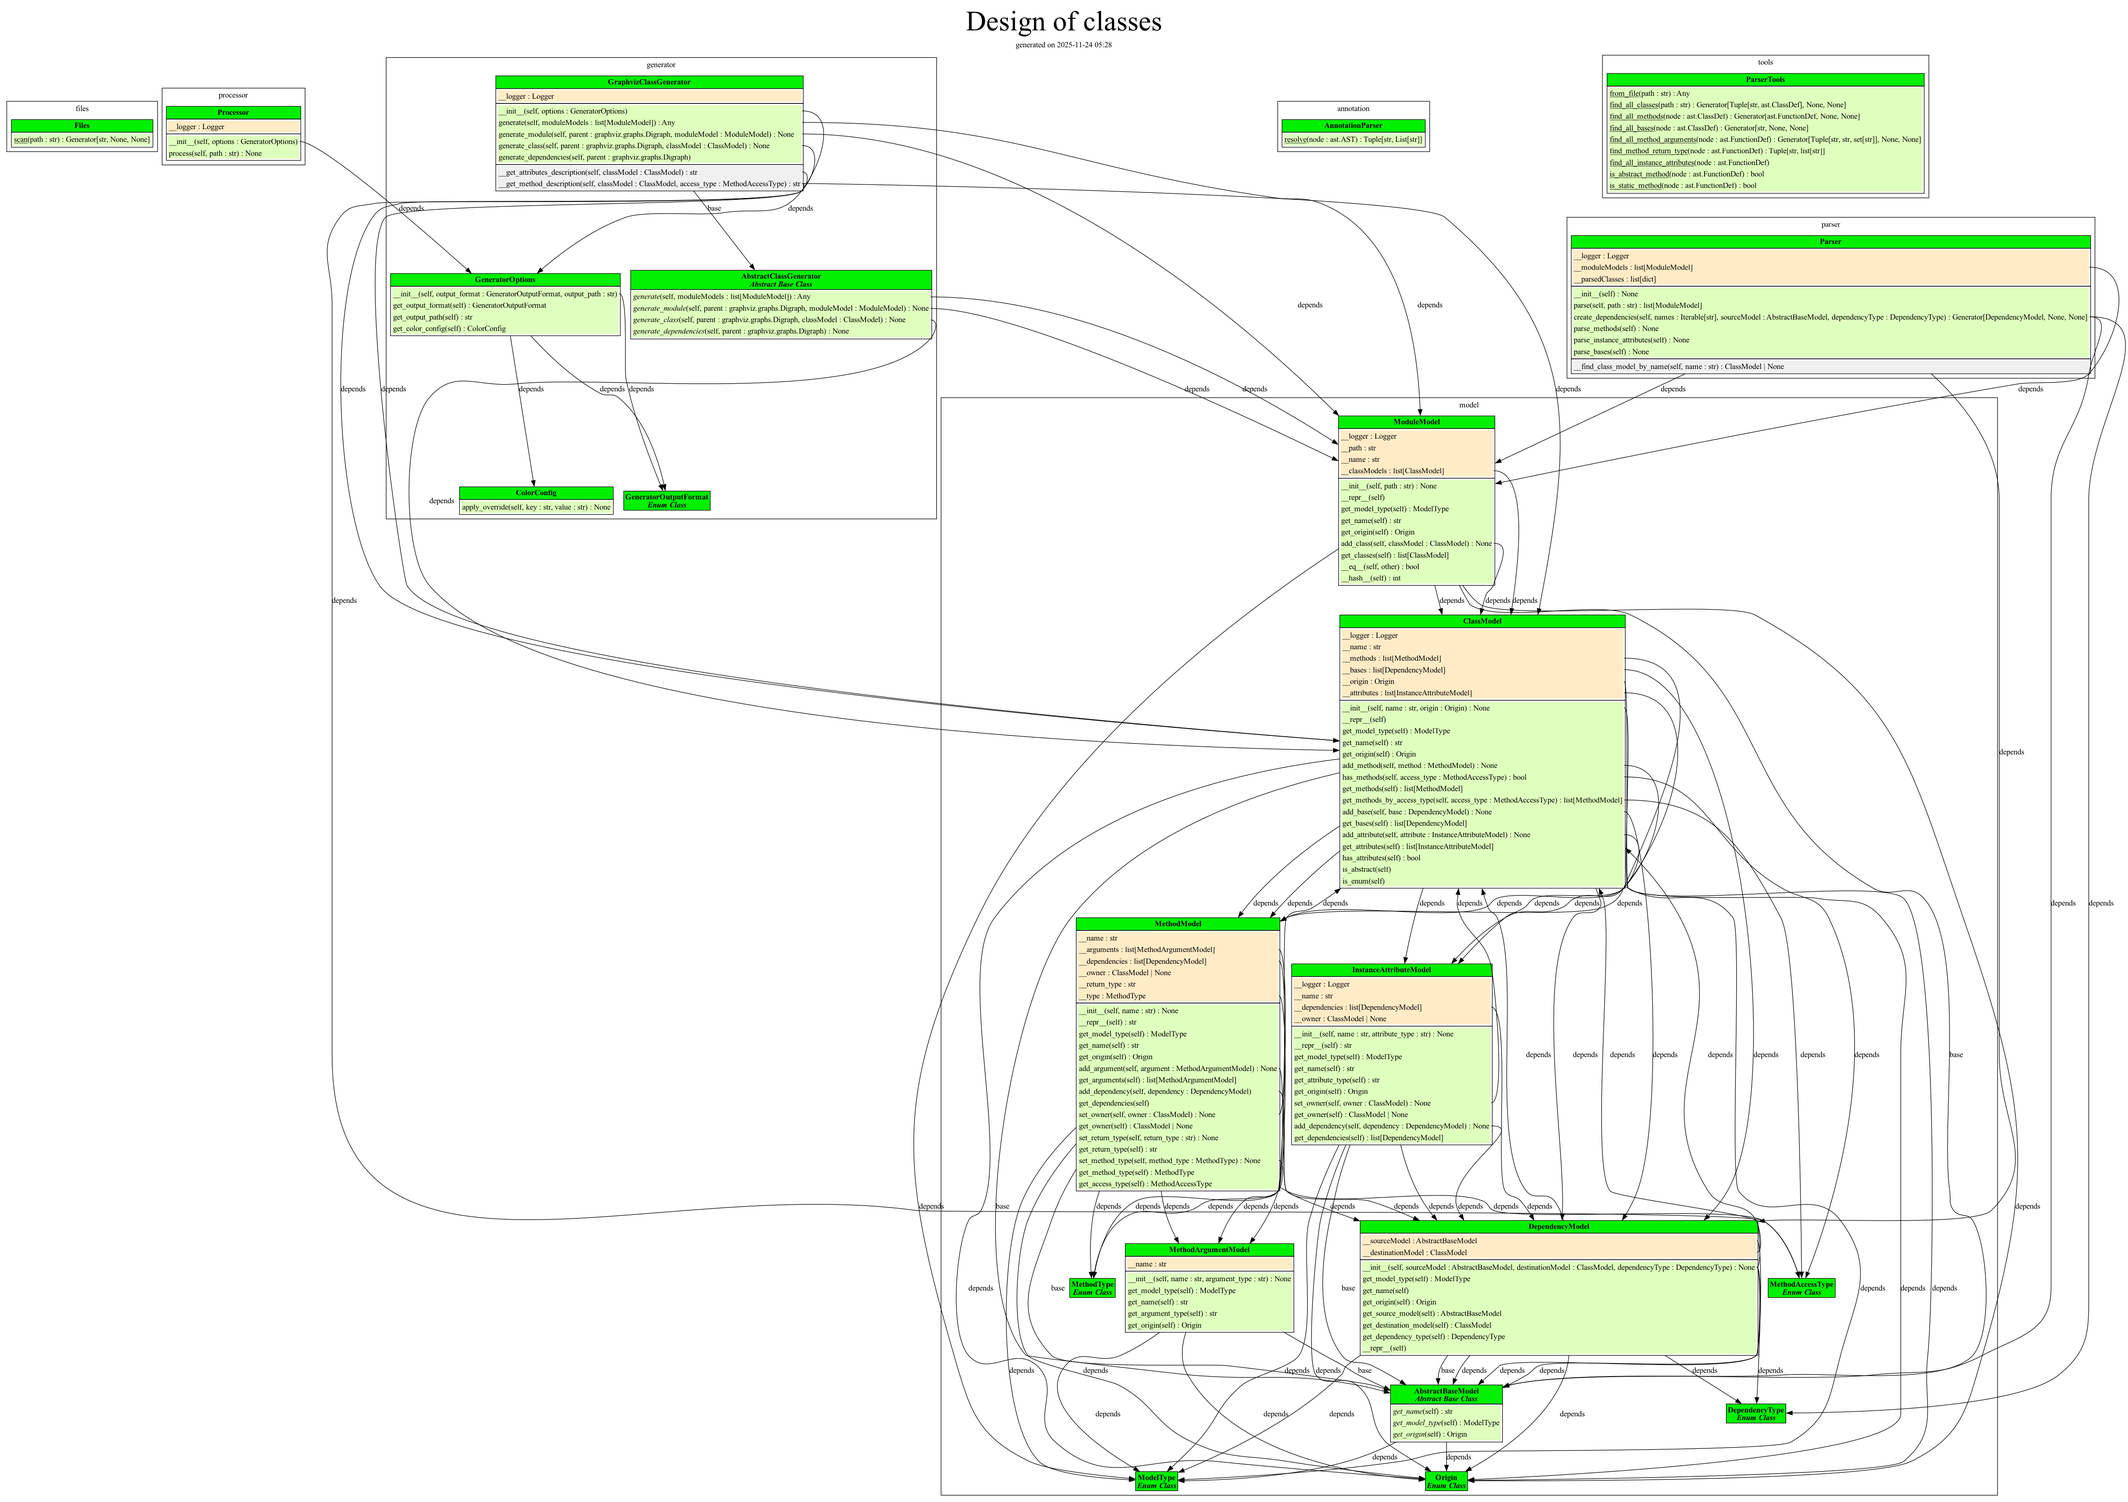
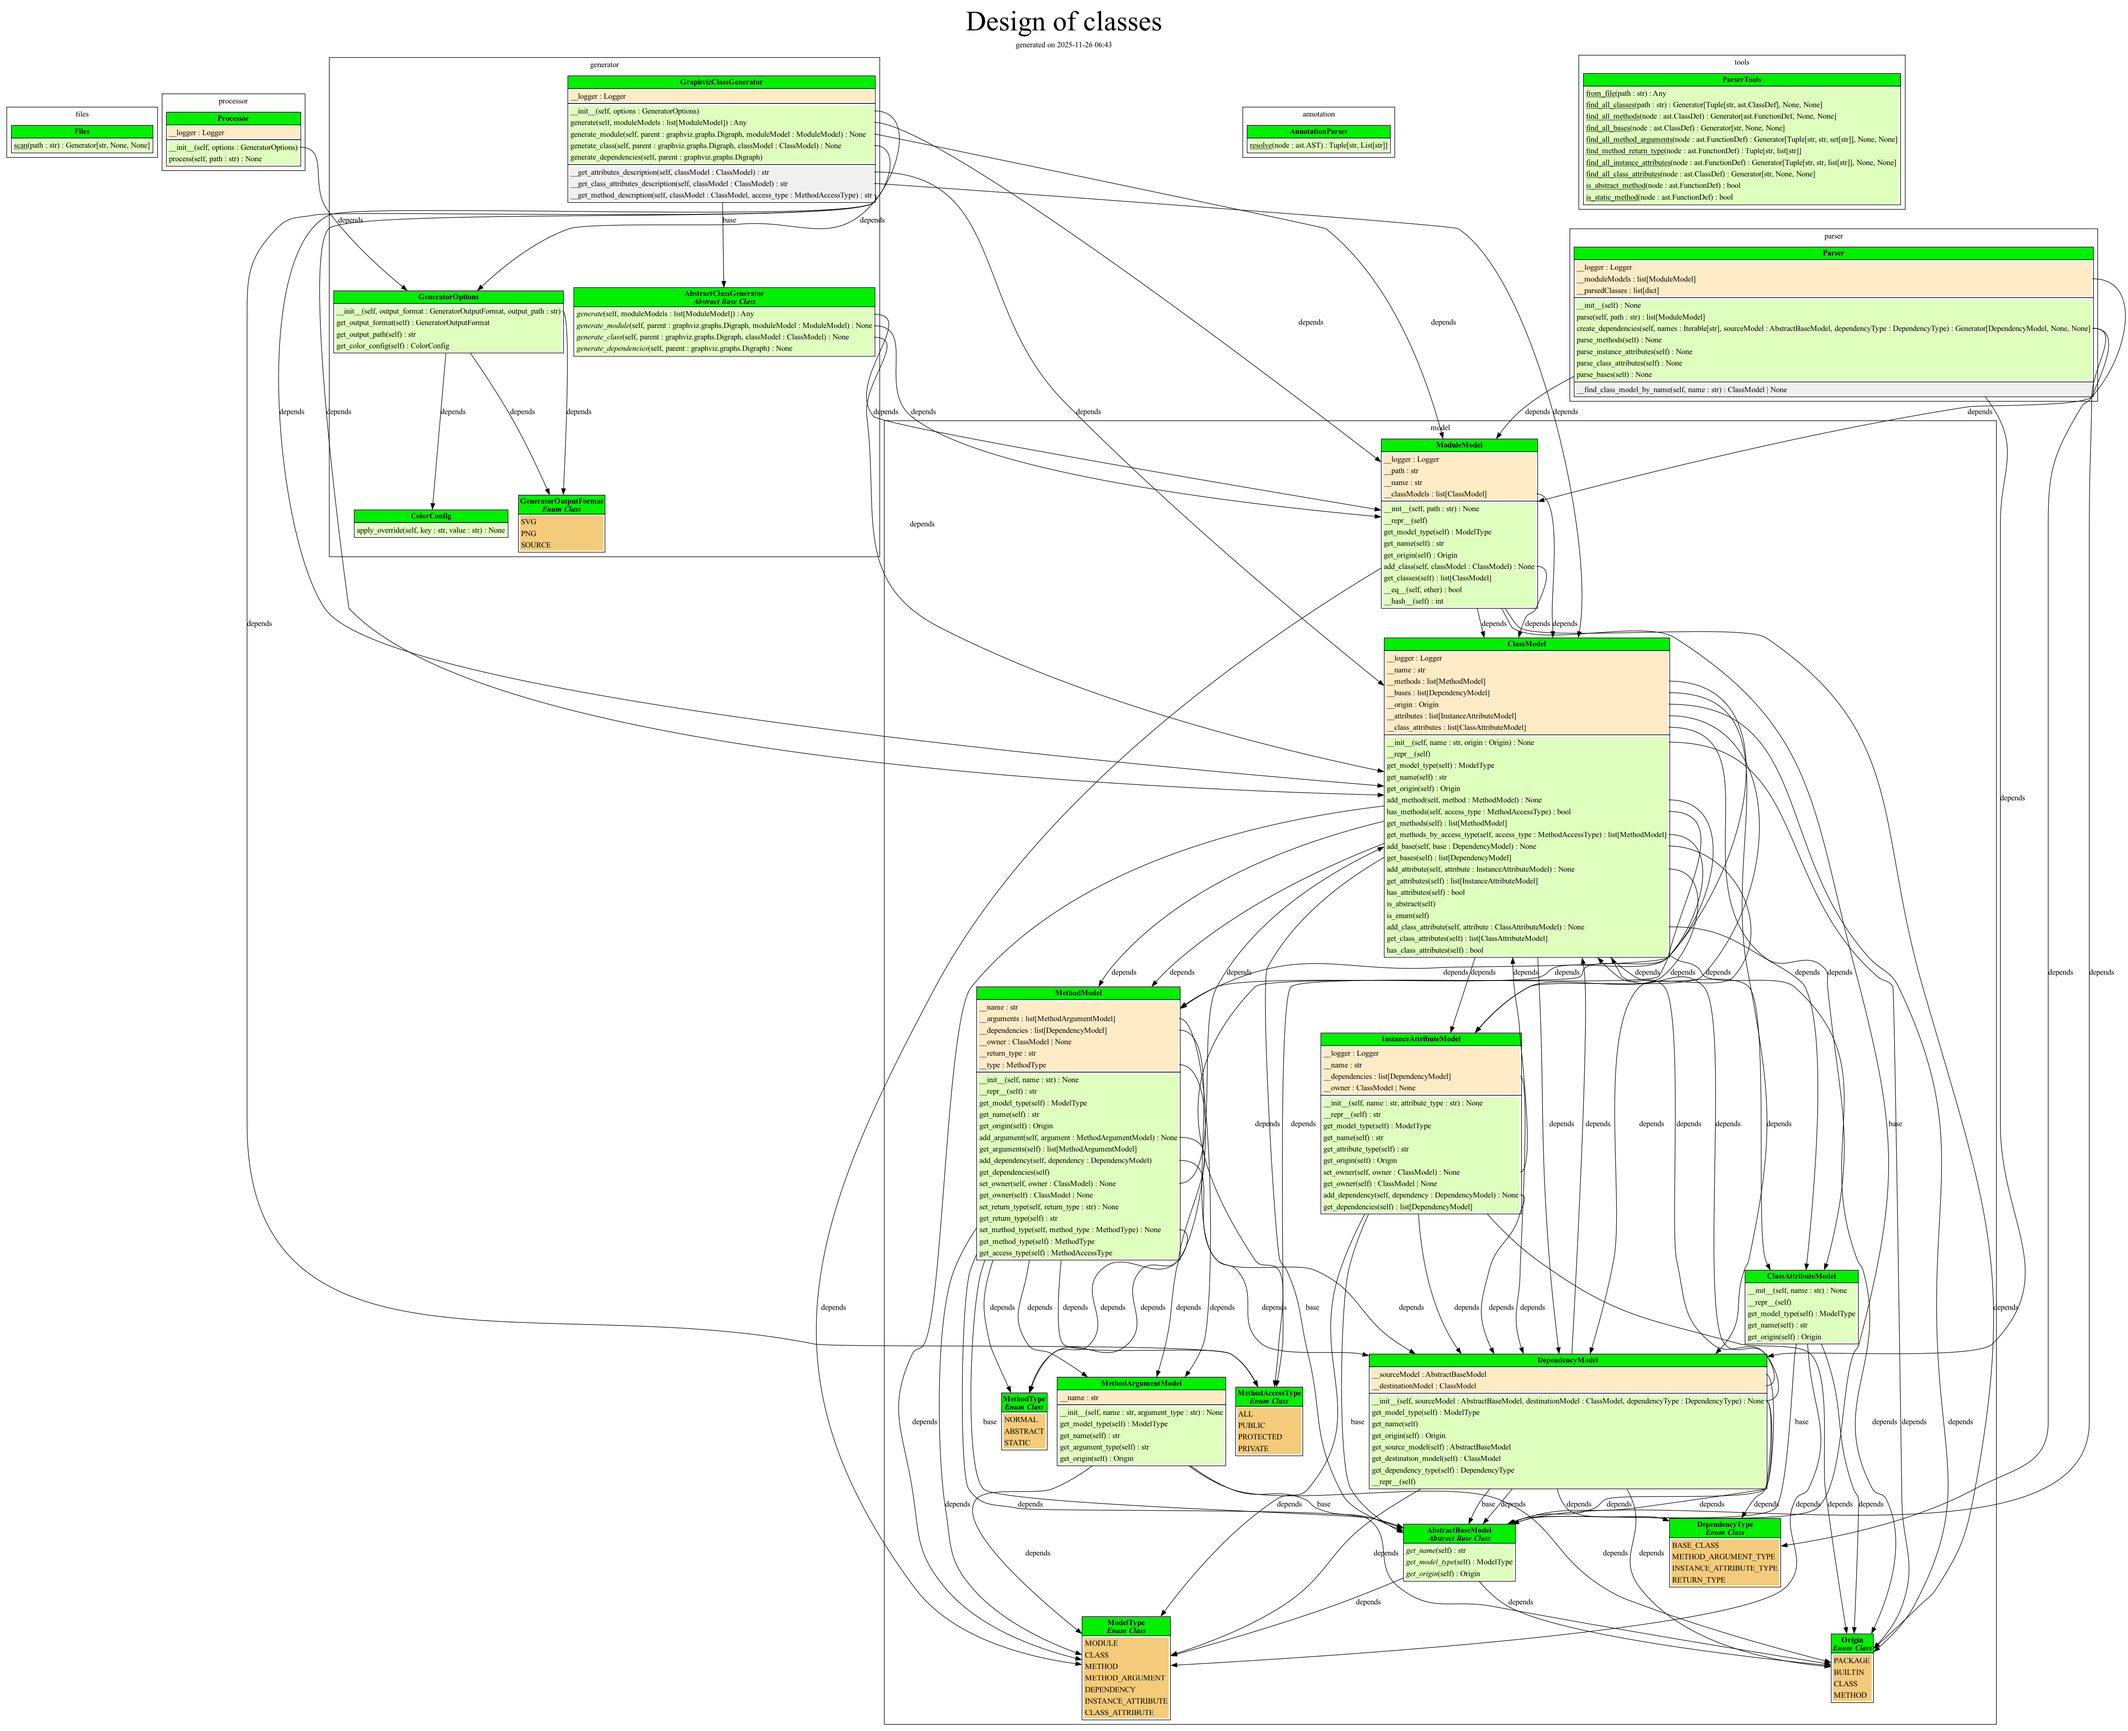
#13 Check class to be an enum class and get and show constants

diff --git a/codevinci/parser/model.py b/codevinci/parser/model.py
@@ -15,6 +15,7 @@ class ModelType(Enum):
     METHOD_ARGUMENT = auto()
     DEPENDENCY = auto()
     INSTANCE_ATTRIBUTE = auto()
+    CLASS_ATTRIBUTE = auto()
 
 
 class DependencyType(Enum):
@@ -71,6 +72,36 @@ class AbstractBaseModel(ABC):
         ...
 
 
+class ClassAttributeModel(AbstractBaseModel):
+    """Model for representing class attributes."""
+
+    def __init__(self, name: str) -> None:
+        """Initialize ClassAttributeModel instance."""
+        self.__name = name
+
+    def __repr__(self):
+        """String representation of ClassAttributeModel instance."""
+        return f"ClassAttributeModel({self.__name})"
+
+    def __eq__(self, other) -> bool:
+        """Compare to modules to be equal."""
+        if not isinstance(other, ClassAttributeModel):
+            raise NotImplementedError
+        return self.__name == other.__name
+
+    def get_model_type(self) -> ModelType:
+        """Get type of model."""
+        return ModelType.CLASS_ATTRIBUTE
+
+    def get_name(self) -> str:
+        """Name of the class."""
+        return self.__name
+
+    def get_origin(self) -> Origin:
+        """Get location of the attribute."""
+        return Origin.CLASS
+
+
 class ClassModel(AbstractBaseModel):
     """Model for a class."""
 
@@ -84,6 +115,7 @@ class ClassModel(AbstractBaseModel):
         self.__bases: list[DependencyModel] = []
         self.__origin: Origin = origin
         self.__attributes: list[InstanceAttributeModel] = []
+        self.__class_attributes: list[ClassAttributeModel] = []
 
     def __repr__(self):
         """String representation of ClassModel instance."""
@@ -179,6 +211,20 @@ class ClassModel(AbstractBaseModel):
             if base.get_destination_model().get_name() == "Enum":
                 return True
         return False
+
+    def add_class_attribute(self, attribute: ClassAttributeModel) -> None:
+        """Add instance attribute to class."""
+        if attribute not in self.__class_attributes:
+            self.__class_attributes.append(attribute)
+            self.__logger.info(f"{attribute} added to {self}")
+
+    def get_class_attributes(self) -> list[ClassAttributeModel]:
+        """Provide list of class attributes."""
+        return self.__class_attributes
+
+    def has_class_attributes(self) -> bool:
+        """Check whether there are class attributes."""
+        return len(self.__class_attributes) > 0
 
 
 class ModuleModel(AbstractBaseModel):

diff --git a/codevinci/generator.py b/codevinci/generator.py
@@ -32,6 +32,7 @@ class ColorConfig:
 
     title_color: str = "#ADFF2F"
     attributes_color: str = "#FFECC6"
+    class_attributes_color: str = "#F3CB7A"
 
     public_methods_color: str = "#DFFFBE"
     protected_methods_color: str = "#3CB371"
@@ -165,6 +166,10 @@ class GraphvizClassGenerator(AbstractClassGenerator):
                 + "</b></td></tr>"
             )
 
+        attributes_description = self.__get_class_attributes_description(classModel)
+        if attributes_description:
+            description += "<tr><td>" + attributes_description + "</td></tr>"
+
         attributes_description = self.__get_attributes_description(classModel)
         if attributes_description:
             description += "<tr><td>" + attributes_description + "</td></tr>"
@@ -244,6 +249,19 @@ class GraphvizClassGenerator(AbstractClassGenerator):
             instance_attributes_description += "</table>"
 
         return instance_attributes_description
+
+    def __get_class_attributes_description(self, classModel: ClassModel) -> str:
+        """Generate class attributes for classes in diagramm."""
+        class_attributes_description = ""
+        if classModel.has_class_attributes():
+            color = self.__options.get_color_config().class_attributes_color
+            class_attributes_description = f"""<table border="0" cellborder="0" cellspacing="0" bgcolor="{color}">"""
+            for attributeModel in classModel.get_class_attributes():
+                class_attributes_description += '<tr><td align="left">'
+                class_attributes_description += attributeModel.get_name()
+                class_attributes_description += "</td></tr>"
+            class_attributes_description += "</table>"
+        return class_attributes_description
 
     def __get_method_description(
         self, classModel: ClassModel, access_type: MethodAccessType

diff --git a/tests/test_model.py b/tests/test_model.py
@@ -2,6 +2,7 @@
 
 from codevinci.parser import (
     ClassModel,
+    ClassAttributeModel,
     DependencyModel,
     DependencyType,
     MethodModel,
@@ -23,6 +24,8 @@ def test_class_model_basics():
     assert model.get_origin() == Origin.PACKAGE
     assert len(model.get_methods()) == 0
     assert len(model.get_bases()) == 0
+    assert not model.has_attributes()
+    assert not model.has_class_attributes()
     assert not model.has_methods()
     assert str(model) == "ClassModel(test)"
 
@@ -61,6 +64,31 @@ def test_class_model_with_multiple_methods():
     methods = model.get_methods_by_access_type(MethodAccessType.PRIVATE)
     assert len(methods) == 1
     assert methods[0].get_name() == "__get_value"
+
+
+def test_class_model_with_class_attributes():
+    """Testing class attributes."""
+    model = ClassModel("ModelType")
+    model.add_class_attribute(ClassAttributeModel("MODULE"))
+    model.add_class_attribute(ClassAttributeModel("MODULE"))
+    model.add_class_attribute(ClassAttributeModel("CLASS"))
+    assert model.has_class_attributes()
+    class_attributes = model.get_class_attributes()
+    assert len(class_attributes) == 2
+    assert class_attributes[0].get_name() == "MODULE"
+    assert class_attributes[1].get_name() == "CLASS"
+
+
+def test_class_attributes_model():
+    """Testing class ClassAttributesModel."""
+    model = ClassAttributeModel("MODULE")
+    assert model.get_name() == "MODULE"
+    assert model.get_model_type() == ModelType.CLASS_ATTRIBUTE
+    assert model.get_origin() == Origin.CLASS
+    assert model == ClassAttributeModel("MODULE")
+
+    with pytest.raises(NotImplementedError):
+        model == ClassModel("ModelType")  # pyright: ignore[reportUnusedExpression]
 
 
 def test_method_model_basics():

diff --git a/codevinci/parser/parser.py b/codevinci/parser/parser.py
@@ -6,6 +6,7 @@ from typing import Generator, Iterable
 from .tools import ParserTools
 from .model import (
     AbstractBaseModel,
+    ClassAttributeModel,
     ClassModel,
     InstanceAttributeModel,
     DependencyModel,
@@ -54,6 +55,8 @@ class Parser:
         self.parse_bases()
         # now parse all instance attributes of a class for all classes
         self.parse_instance_attributes()
+        # now parse all class attributes
+        self.parse_class_attributes()
         # provide final results
         return self.__moduleModels
 
@@ -131,6 +134,18 @@ class Parser:
                             DependencyType.INSTANCE_ATTRIBUTE_TYPE,
                         ):
                             instanceAttributeModel.add_dependency(dependency)
+
+    def parse_class_attributes(self) -> None:
+        """Parse class attributes and register it to the relating class."""
+        for parsedClass in self.__parsedClasses:
+            classModel = parsedClass["model"]
+            classNode = parsedClass["node"]
+
+            if not classModel.is_enum():
+                continue
+
+            for name in ParserTools.find_all_class_attributes(classNode):
+                classModel.add_class_attribute(ClassAttributeModel(name))
 
     def parse_bases(self) -> None:
         """Parse for base class and register it as dependency to the relating class."""

diff --git a/codevinci/parser/tools.py b/codevinci/parser/tools.py
@@ -116,7 +116,9 @@ class ParserTools:
         return return_type, names
 
     @staticmethod
-    def find_all_instance_attributes(node: ast.FunctionDef):
+    def find_all_instance_attributes(
+        node: ast.FunctionDef,
+    ) -> Generator[Tuple[str, str, list[str]], None, None]:
         """Provide all instance attributes of a class."""
         if node.name == "__init__":
             for child_node in ast.iter_child_nodes(node):
@@ -139,6 +141,23 @@ class ParserTools:
                     )
 
                 yield attribute_name, attribute_type, names
+
+    @staticmethod
+    def find_all_class_attributes(node: ast.ClassDef) -> Generator[str, None, None]:
+        """Find all class attributes."""
+        child_nodes = [
+            child_node
+            for child_node in ast.walk(node)
+            if not isinstance(child_node, ast.FunctionDef)
+            and not isinstance(child_node, ast.ClassDef)
+        ]
+
+        for child_node in child_nodes:
+            if not isinstance(child_node, ast.Assign):
+                continue
+            if not isinstance(child_node.targets[0], ast.Name):
+                continue
+            yield child_node.targets[0].id
 
     @staticmethod
     def is_abstract_method(node: ast.FunctionDef) -> bool:

diff --git a/codevinci/parser/__init__.py b/codevinci/parser/__init__.py
@@ -2,6 +2,7 @@
 
 from .model import (
     ClassModel,
+    ClassAttributeModel,
     DependencyModel,
     DependencyType,
     MethodModel,
@@ -21,6 +22,7 @@ __all__ = [
     "Parser",
     "ParserTools",
     "ClassModel",
+    "ClassAttributeModel",
     "DependencyModel",
     "DependencyType",
     "MethodModel",

diff --git a/docs/quick-start.md b/docs/quick-start.md
@@ -1,0 +1,23 @@
+# Quick Start
+
+**Please note**: It will be available on PyPI when all features for first release are complete.
+
+## Example usage with nox and Github
+
+### Does require git
+
+```python
+@nox.session
+def codevinci_help(session: nox.Session) -> None:
+    session.install('git+https://github.com/thomas-lehmann-private/codevinci.git@main')
+    session.run('codevinci', '--help')
+```
+
+### Does not require git
+
+```python
+@nox.session
+def codevinci_help(session: nox.Session) -> None:
+    session.install('https://github.com/thomas-lehmann-private/codevinci/archive/refs/heads/main.zip')
+    session.run('codevinci', '--help')
+```

diff --git a/README.md b/README.md
@@ -29,11 +29,11 @@ Similarly, CodeVinci aims to:
 
 The name reflects the tool’s mission: turning Python code into insightful, visually structured representations, much like da Vinci’s ability to transform ideas into iconic diagrams.
 
-# Quick Start
+## Quick Start
 
 **Please note**: It will be available on PyPI when all features for first release are complete.
 
-## Example usage with nox and Github
+### Example usage with nox and Github
 
 ```python
 @nox.session
